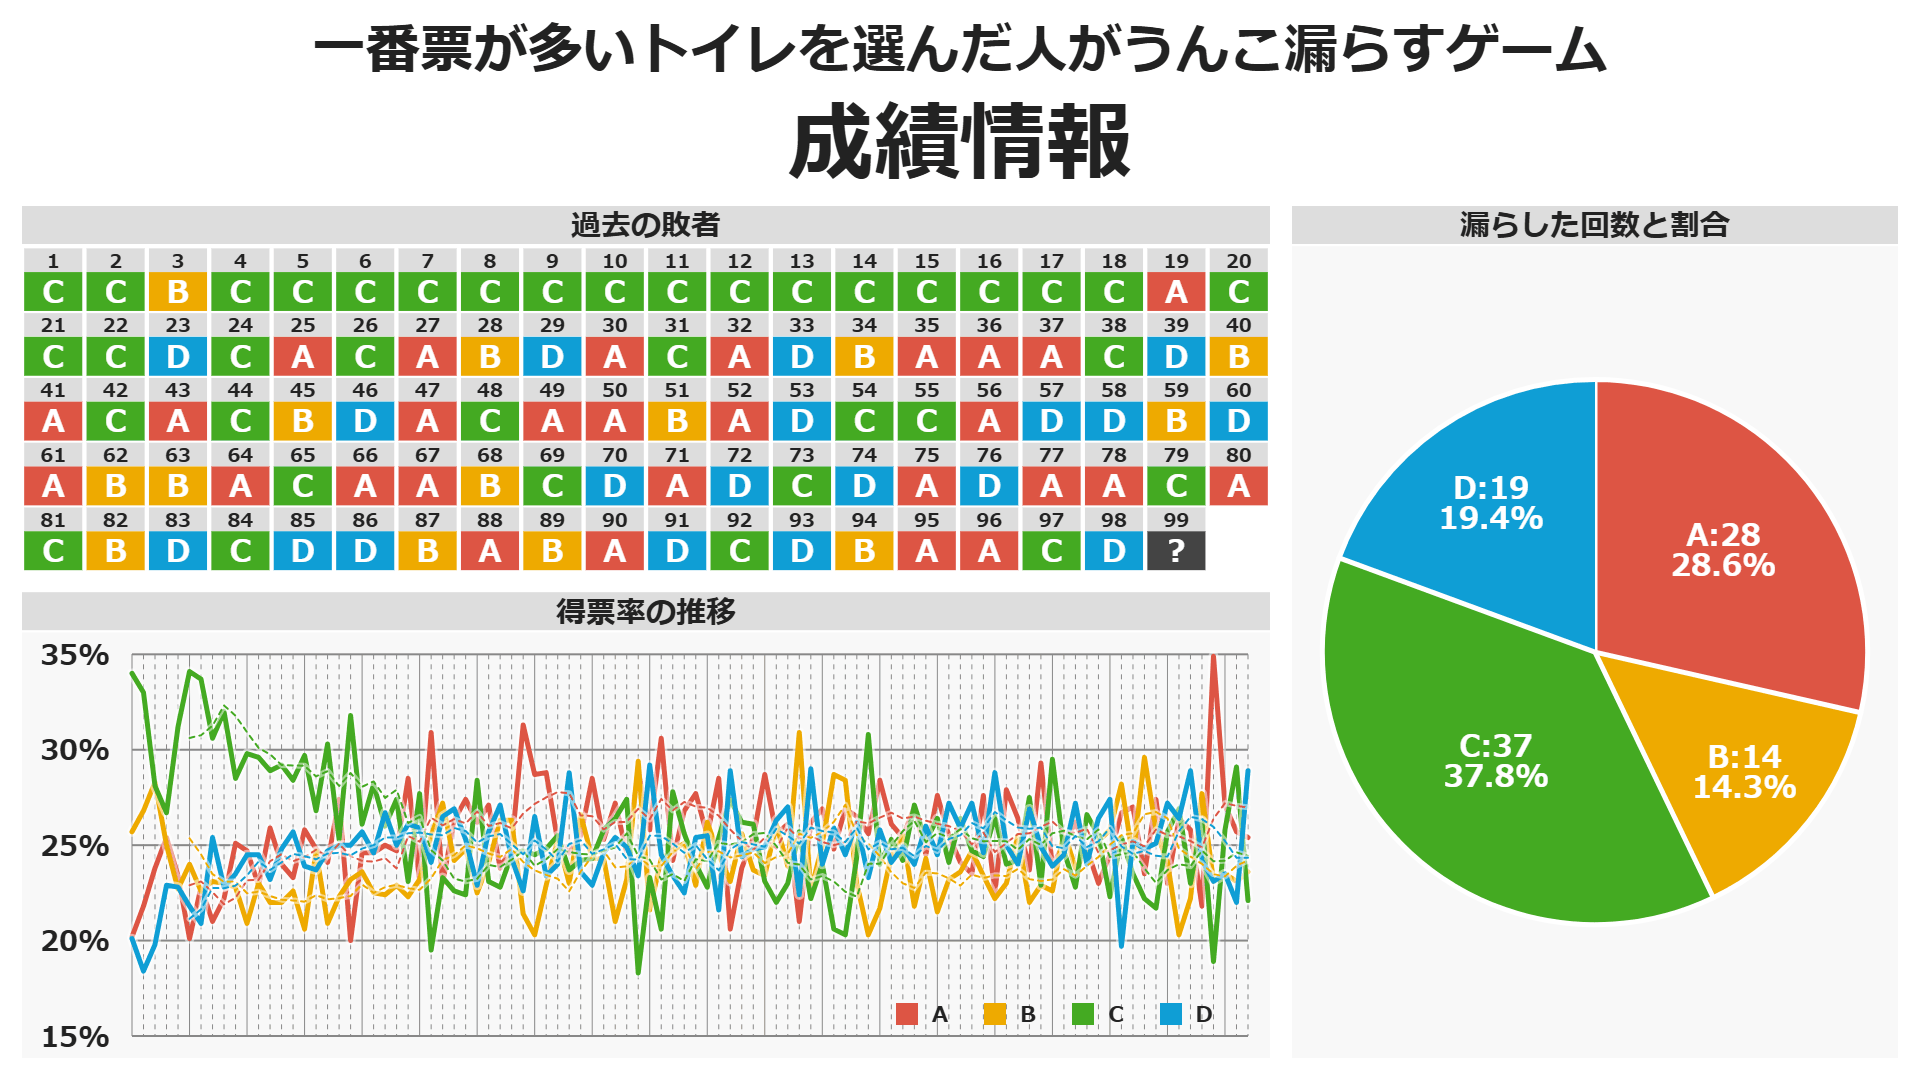
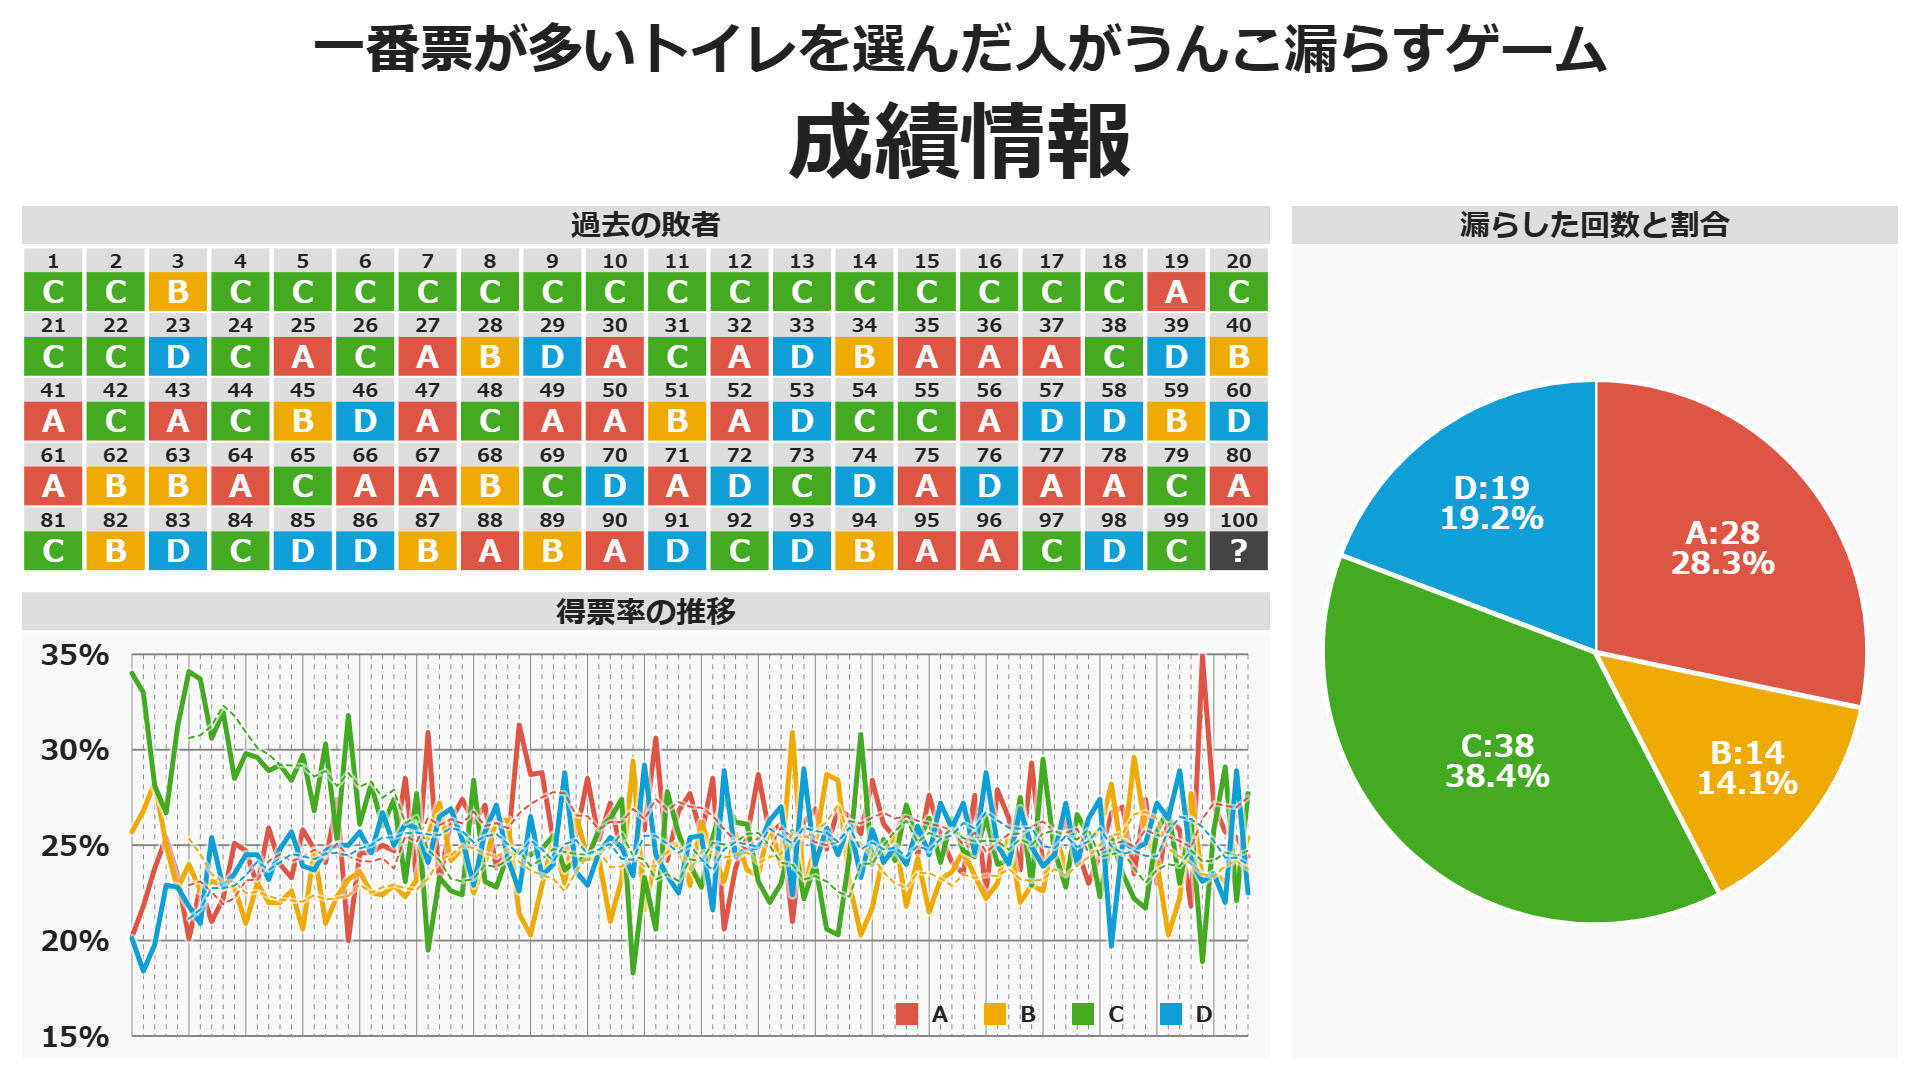
update

diff --git a/docs/index.html b/docs/index.html
@@ -13,7 +13,7 @@
   <meta property="og:url" content="https://shapoco.github.io/toilet-game/" />
   <meta property="og:title" content="4択トイレゲーム" />
   <meta property="og:description" content="一番票が多いトイレを選んだ人がうんこ漏らすゲーム" />
-  <meta property="og:image" content="https://shapoco.github.io/toilet-game/cover.png?20251011163800" />
+  <meta property="og:image" content="https://shapoco.github.io/toilet-game/cover.png?20251018175400" />
 
   <link rel="icon" href="https://shapoco.github.io/favicon192.png" sizes="192x192">
   <link rel="apple-touch-icon" href="https://shapoco.github.io/apple-touch-icon180.png" sizes="180x180">
@@ -37,8 +37,8 @@
   <style>
   </style>
 
-  <link rel="stylesheet" href="./style.css?20251011163800">
-  <script src="./toilet_game.js?20251011163800"></script>
+  <link rel="stylesheet" href="./style.css?20251018175400">
+  <script src="./toilet_game.js?20251018175400"></script>
 
   <title>4択トイレゲーム</title>
 </head>

diff --git a/docs/work.html b/docs/work.html
@@ -13,7 +13,7 @@
   <meta property="og:url" content="https://shapoco.github.io/toilet-game/" />
   <meta property="og:title" content="4択トイレゲーム" />
   <meta property="og:description" content="一番票が多いトイレを選んだ人がうんこ漏らすゲーム" />
-  <meta property="og:image" content="https://shapoco.github.io/toilet-game/cover.png?20251011163800" />
+  <meta property="og:image" content="https://shapoco.github.io/toilet-game/cover.png?20251018175400" />
 
   <link rel="icon" href="https://shapoco.github.io/favicon192.png" sizes="192x192">
   <link rel="apple-touch-icon" href="https://shapoco.github.io/apple-touch-icon180.png" sizes="180x180">
@@ -34,8 +34,8 @@
     }
   </script>
 
-  <link rel="stylesheet" href="./style.css?20251011163800">
-  <script src="./toilet_game.js?20251011163800"></script>
+  <link rel="stylesheet" href="./style.css?20251018175400">
+  <script src="./toilet_game.js?20251018175400"></script>
 
   <title>4択トイレゲーム</title>
 </head>

diff --git a/docs/toilet_game.js b/docs/toilet_game.js
@@ -100,6 +100,7 @@ const DB = [
   { date: '2025-09-20', total: 387, percent: [27.1, 23.5, 25.8, 23.5], url: 'https://x.com/shapoco/status/1969319004259963332' },
   { date: '2025-09-27', total: 381, percent: [25.7, 23.1, 29.1, 22], url: 'https://x.com/shapoco/status/1971942918664679556' },
   { date: '2025-10-04', total: 398, percent: [25.4, 23.6, 22.1, 28.9], url: 'https://x.com/shapoco/status/1974463216622485733' },
-  { date: '2025-10-11', total: 0, percent: null, url: null },
+  { date: '2025-10-11', total: 213, percent: [24.4, 25.4, 27.7, 22.5], url: 'https://x.com/shapoco/status/1976916115134857513' },
+  { date: '2025-10-18', total: 0, percent: null, url: null },
   //{ date: '2025-xx-xx', total: 0, percent: null, url: null },
 ];
